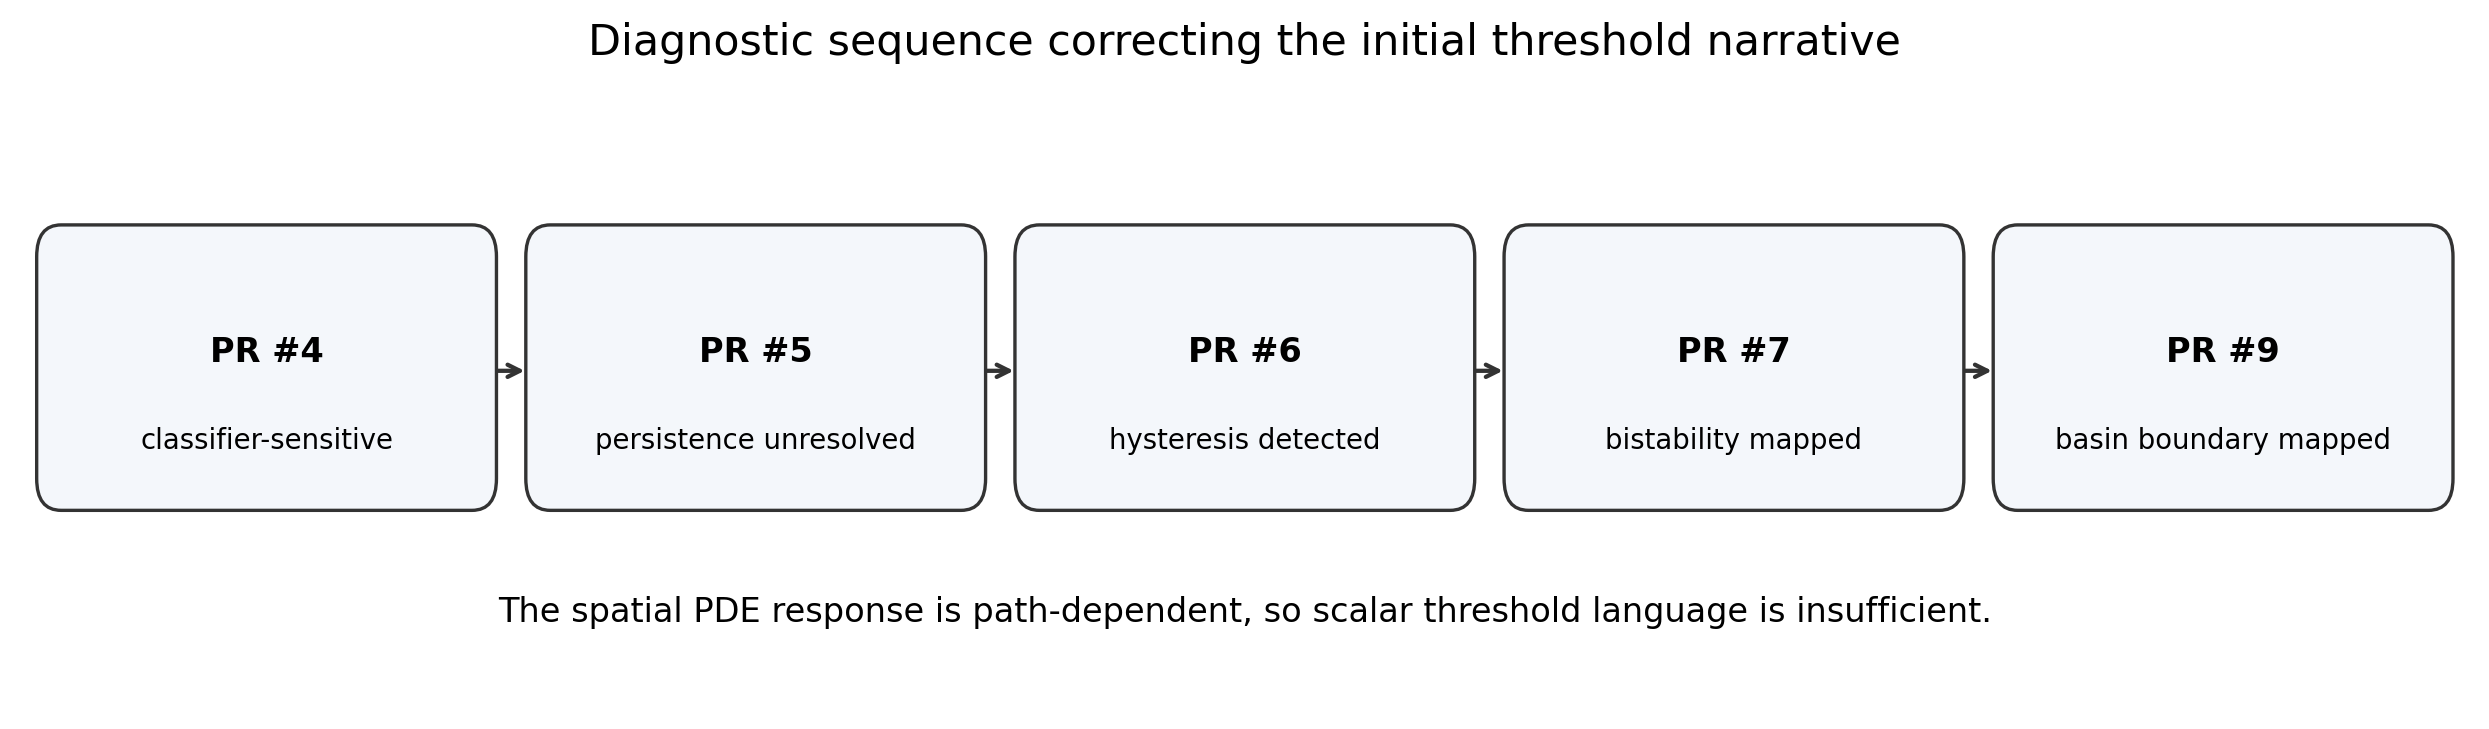
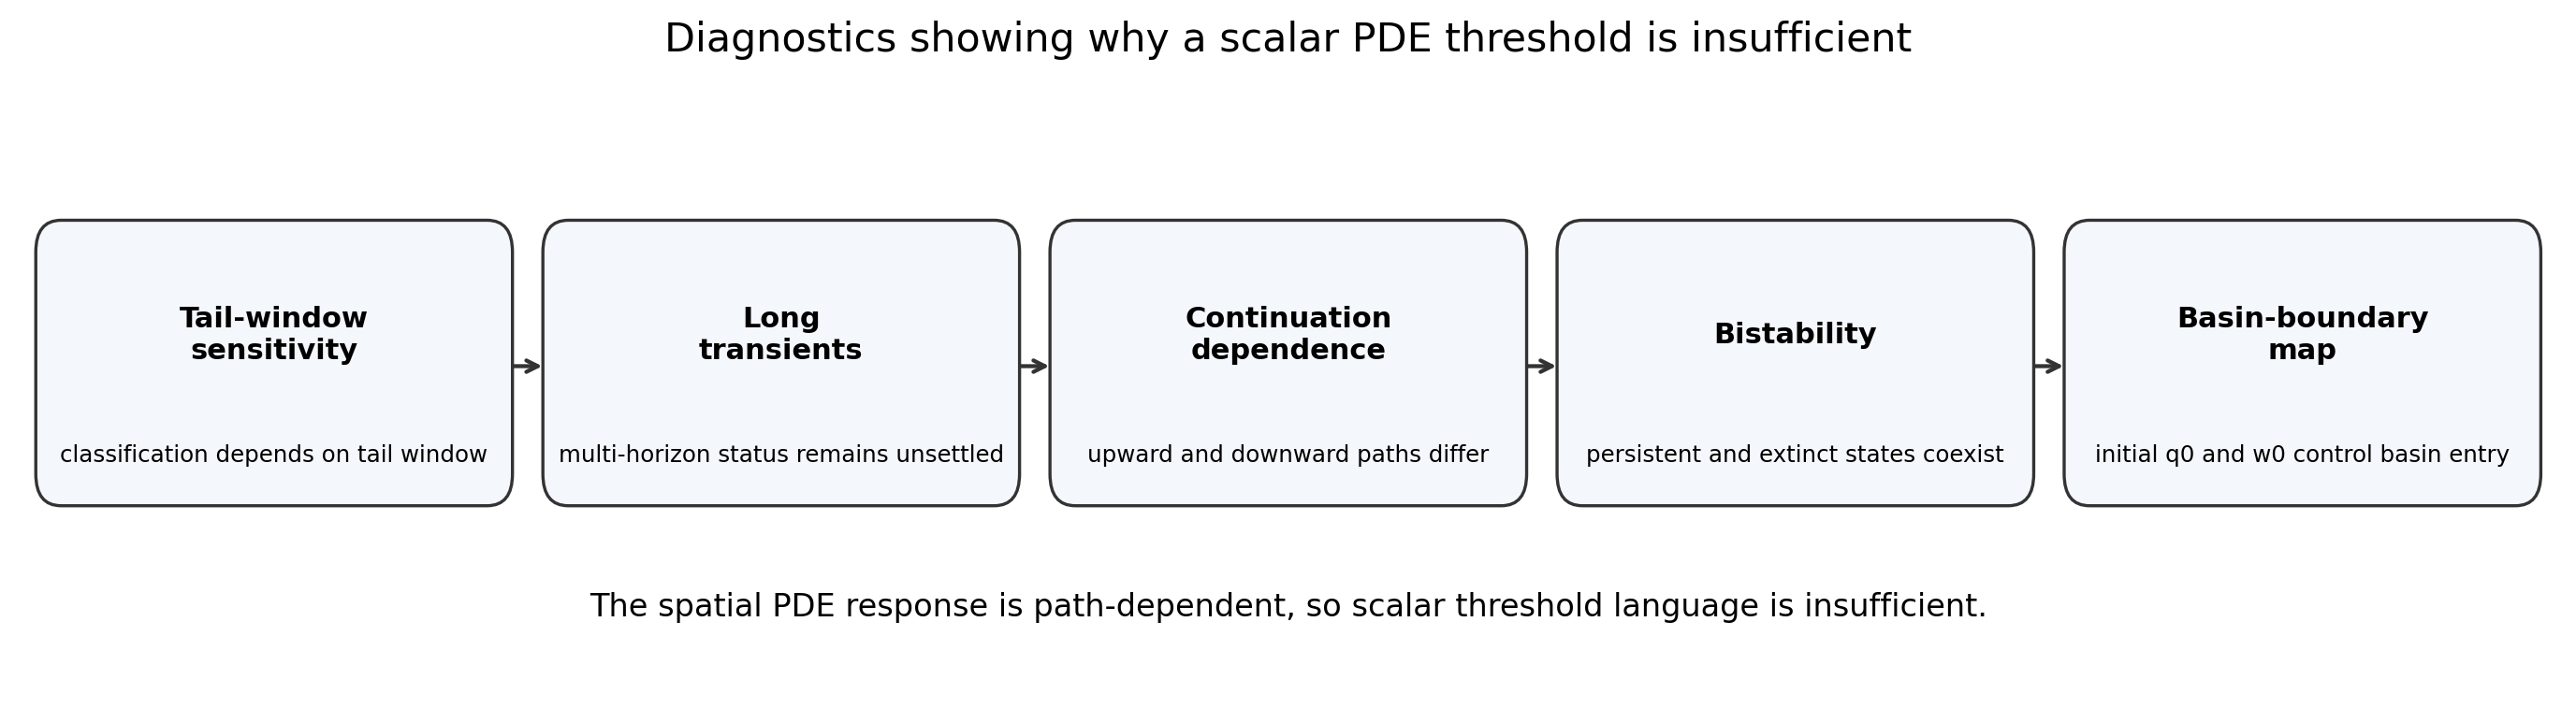
Rewrite rescue report in scientific form

diff --git a/manuscript/roy_evo_spatial_rescue_report.tex b/manuscript/roy_evo_spatial_rescue_report.tex
@@ -19,122 +19,146 @@
 \maketitle
 
 \begin{abstract}
-The fixed-defense spatial Roy-style model did not produce robust predator rescue: the best fixed-defense spatial candidate failed validation and was classified as a transient or numerical candidate. Introducing prey defense evolution in the well-mixed model did support indirect evolutionary rescue, increasing the predator mortality stress threshold from the no-evolution value to the evolving threshold while defense frequency declined in the rescue window. Adding spatial diffusion did not produce a result that can be summarized by one scalar persistence threshold. Later diagnostics showed classifier sensitivity, unresolved long transients, continuation hysteresis, and bistability. The current endpoint is that ODE prey defense evolution supports indirect evolutionary rescue, while the spatial PDE response is path-dependent and bistable. Basin entry depends on initial defense frequency \(q_0\) and initial predator abundance \(w_0\), so the spatial model should be analyzed through basin structure rather than a single persistence threshold.
+We study whether spatial structure can alter indirect evolutionary rescue in a predator--prey model with evolving prey defense. A fixed-defense spatial control did not produce robust predator persistence beyond the well-mixed reference. Introducing prey defense evolution in the well-mixed model increased the predator mortality stress tolerated by the system, consistent with indirect evolutionary rescue through a decline in defense frequency. In the spatial eco-evolutionary model, however, persistence was not organized by a single monotone stress threshold. Multi-horizon, continuation, and basin analyses showed path-dependent dynamics and bistability: at the same mortality stress, predator-persistent and predator-extinct outcomes were both reachable from different initial conditions. A focused basin-boundary scan showed that initial defense frequency and predator abundance influence basin entry. These results suggest that spatial eco-evolutionary rescue should be analyzed in terms of reachable outcome basins rather than scalar persistence thresholds.
 \end{abstract}
 
 \section{Introduction}
 
-Indirect evolutionary rescue requires a change in trait values or genotype frequencies after environmental stress. A fixed-defense predator--prey model can test whether spatial patterning alone supports predator persistence, but it cannot test indirect evolutionary rescue because the prey defense state is fixed. The eco-evolutionary extension therefore introduces a prey defense frequency \(q\), where lower \(q\) represents lower defense, higher prey growth, and higher predator conversion opportunity.
+Evolutionary rescue occurs when adaptive trait or genotype-frequency change allows a population to persist after environmental stress. In the present predator--prey setting, the relevant trait is prey defense. Higher defense reduces predation pressure, but it also carries ecological costs through lower prey growth and lower predator conversion opportunity. Indirect evolutionary rescue of the predator can occur when increased predator mortality lowers predator pressure, selection favors reduced prey defense, and the resulting lower-defense prey state improves predator recovery.
 
-Spatial structure can change predator--prey outcomes by changing local overlap, covariance, and transient recovery paths. The current project initially asked whether spatial diffusion amplifies or suppresses the well-mixed evolutionary rescue threshold. That framing proved too narrow. The first threshold comparison suggested a lower PDE-evo threshold than the ODE-evo threshold, but later analyses showed that threshold language is insufficient because the system has multiple reachable outcomes at the same stress.
+This mechanism cannot be tested in a fixed-defense model. A fixed-defense spatial predator--prey model can ask whether spatial patterning alone creates predator persistence beyond a well-mixed reference, but it cannot test evolutionary rescue because the prey defense state does not change. The eco-evolutionary model therefore introduces a defense frequency \(q\), with \(q=0\) representing fully undefended prey and \(q=1\) representing fully defended prey.
 
-The report summarizes the current endpoint from existing project outputs. It does not introduce new simulations or model equations. The central conclusion is that the spatial eco-evolutionary model has path-dependent bistable rescue dynamics organized by reachable outcome basins.
+Comparing well-mixed and spatial models is useful because diffusion can alter local predator--prey overlap, transient recovery paths, and the basins of attraction of persistent or extinct states. A scalar mortality threshold \(m_c\) is a natural first diagnostic: below the threshold the predator persists, while above it the predator fails to persist. This diagnostic is appropriate when the stress response is monotone and when persistence is controlled by one attracting outcome. It can fail in bistable systems, where persistent and extinct states are both reachable at the same stress.
 
-\section{Model sequence}
+The main result is that the well-mixed eco-evolutionary model supports indirect evolutionary rescue, while the spatial eco-evolutionary model is not summarized by a single persistence threshold. In the spatial model, the same stress can lead to predator persistence, extinction, or long transients depending on initial condition and continuation path.
 
-The eco-evolutionary variables are total prey density \(n\), predator density \(w\), prey defense frequency \(q\), and free space
+\section{Model formulation}
+
+The eco-evolutionary variables are total prey density \(n\), predator density \(w\), prey defense frequency \(q\), free space \(z\), and predator mortality stress \(s\). Free space is
 \[
 z = \kappa^{-1} - n - w.
 \]
 The defense trade-off functions are
 \[
-r(q)=r_u(1-q)+r_v q,\quad
-a(q)=a_u(1-q)+a_v q,\quad
+r(q)=r_u(1-q)+r_v q,
+\]
+\[
+a(q)=a_u(1-q)+a_v q,
+\]
+\[
 b(q)=b_u(1-q)+b_v q.
 \]
-The well-mixed ODE is
+The well-mixed eco-evolutionary ODE is
 \begin{align}
 \frac{dn}{dt} &= n[r(q)z-\xi-a(q)w],\\
 \frac{dw}{dt} &= w[b(q)nz-(m+s)-\mu w],\\
 \frac{dq}{dt} &= \nu q(1-q)[(r_v-r_u)z-(a_v-a_u)w].
 \end{align}
-Here \(s\) is the predator mortality stress. The spatial PDE uses the same local reaction terms and adds diffusion:
+The spatial extension uses the same local reaction terms and adds diffusion:
 \begin{align}
 \partial_t n &= D_n\nabla^2 n + n[r(q)z-\xi-a(q)w],\\
 \partial_t w &= D_w\nabla^2 w + w[b(q)nz-(m+s)-\mu w],\\
 \partial_t q &= D_q\nabla^2 q + \nu q(1-q)[(r_v-r_u)z-(a_v-a_u)w].
 \end{align}
-The PDE simulations used zero-flux Neumann boundaries.
+The spatial simulations use zero-flux Neumann boundary conditions.
 
 \begin{figure}[htbp]
   \centering
   \includegraphics[width=0.92\linewidth]{figures/roy_evo_spatial/report/fig01_model_schematic.png}
-  \caption{Conceptual schematic of the eco-evolutionary variables and trade-off links.}
+  \caption{Eco-evolutionary model variables and trade-off links. Defense frequency \(q\) changes growth, predation, and conversion terms, while stress \(s\) increases predator mortality.}
   \label{fig:model-schematic}
 \end{figure}
 
 \begin{table}[htbp]
   \centering
-  \caption{Parameter values used in the eco-evolutionary tests. The conversion values \(b_u=0.08\) and \(b_v=0.02\) were used to produce an interior defense-frequency baseline.}
+  \caption{Parameter values used in the eco-evolutionary tests. The conversion values \(b_u=0.08\) and \(b_v=0.02\) were used to obtain an interior defense-frequency baseline.}
   \label{tab:parameters}
   \input{tables/roy_evo_spatial/table01_parameters.tex}
 \end{table}
 
-\section{Fixed-defense spatial model}
+\section{Numerical questions and diagnostic criteria}
 
-The fixed-defense spatial Roy-style route tested whether spatial patterning alone could rescue predators when the well-mixed reference failed. That route did not produce robust ODE-extinct/PDE-persistent rescue. The best weak candidate occurred at \(D_w/D_u=150\), but it failed the validation sequence and was classified as \texttt{transient\_or\_numerical\_candidate}. Therefore fixed-defense spatial patterning was not enough for a robust predator-rescue claim in the tested model.
+The first numerical question was whether prey defense evolution increases the predator mortality stress tolerated by the well-mixed system. This was measured by comparing the no-evolution and evolution thresholds
+\[
+m_c^{ODE,\mathrm{no\ evo}}, \quad m_c^{ODE,\mathrm{evo}},
+\]
+and their difference
+\[
+\Delta_{evo}^{ODE}=m_c^{ODE,\mathrm{evo}}-m_c^{ODE,\mathrm{no\ evo}}.
+\]
+A positive value indicates that prey evolution expands the predator persistence range in the well-mixed model.
 
-\section{Eco-evolutionary ODE rescue}
+The second numerical question was whether adding spatial diffusion changes the same rescue effect. A scalar PDE threshold was initially tested because it gives a direct comparison with the ODE threshold when persistence changes monotonically with stress. The later spatial diagnostics were needed because the apparent PDE boundary was sensitive to the tail window, integration horizon, and tail-slope rule. Multi-horizon analysis showed long transients near the apparent boundary, continuation experiments showed direction-dependent outcomes, and basin scans showed that different initial conditions can reach different outcomes at the same stress.
 
-The well-mixed eco-evolutionary ODE supported indirect evolutionary rescue. The no-evolution predator mortality stress threshold was
+The outcome classes used in the spatial interpretation are scientific rather than procedural. A persistent outcome has a predator density tail that remains positive and steady enough to support persistence. An extinct outcome has predator density near zero. A transient outcome has not settled clearly into either class at the tested horizon. A bistable stress is one where both persistent and extinct outcomes are reachable from different initial states or continuation paths.
+
+\section{Fixed-defense spatial model as a control}
+
+Before introducing prey evolution, the fixed-defense spatial model was used as a control for spatial patterning alone. The question was whether spatial heterogeneity could create predator persistence beyond the well-mixed reference when prey defense was held fixed.
+
+The fixed-defense spatial model did not produce robust ODE-extinct/PDE-persistent predator rescue. The strongest weak candidate occurred at \(D_w/D_u=150\), but further grid and mechanism checks classified it as a transient or numerical candidate rather than a robust spatial rescue mechanism. This control establishes that fixed spatial patterning alone was insufficient for predator rescue in the tested model.
+
+\section{Indirect evolutionary rescue in the well-mixed model}
+
+The well-mixed eco-evolutionary model gave the clean positive result. The no-evolution predator mortality stress threshold was
 \[
 m_c^{ODE,\mathrm{no\ evo}} = 0.069448242,
 \]
-while the evolving threshold was
+whereas the evolving-defense threshold was
 \[
 m_c^{ODE,\mathrm{evo}} = 0.16486816.
 \]
-The evolutionary rescue effect was therefore
+Thus
 \[
-\Delta_{evo}^{ODE} = 0.095419922.
+\Delta_{evo}^{ODE}=0.095419922.
 \]
-In the ODE rescue window, prey defense frequency declined from approximately \(0.6726\) to approximately \(0.3336\), consistent with reduced defense and increased palatability supporting predator recovery.
+In the rescue window, defense frequency declined from approximately \(0.6726\) to approximately \(0.3336\).
+
+Mechanistically, increased predator mortality reduces predator pressure. Lower predator pressure makes defense less favorable because the growth cost of defense is no longer offset by strong predation avoidance. As \(q\) declines, prey growth and predator conversion opportunity increase, allowing predator persistence over a larger stress interval. This is the cleanest evidence for indirect evolutionary rescue in the model sequence.
 
 \begin{figure}[htbp]
   \centering
   \includegraphics[width=0.72\linewidth]{figures/roy_evo_spatial/report/fig02_ode_thresholds.png}
-  \caption{ODE threshold comparison showing indirect evolutionary rescue in the well-mixed model.}
+  \caption{Well-mixed ODE threshold comparison. Prey defense evolution increases the predator mortality stress tolerated by the system.}
   \label{fig:ode-thresholds}
 \end{figure}
 
 \begin{table}[htbp]
   \centering
-  \caption{Threshold quantities from the ODE rescue analysis and early PDE screening. The PDE entries are historical screening quantities and should not be interpreted as final scalar thresholds.}
+  \caption{Threshold quantities from the ODE rescue analysis and preliminary PDE screening. The PDE entries are early screening quantities; later diagnostics show that they should not be treated as final scalar thresholds for the spatial system.}
   \label{tab:thresholds}
   \input{tables/roy_evo_spatial/table02_thresholds.tex}
 \end{table}
 
-\section{Spatial PDE and failure of scalar threshold language}
+\section{Spatial eco-evolutionary model}
 
-The first spatial threshold comparison reported a representative PDE no-evolution threshold of \(0.06921875\) and a representative PDE evolution threshold of \(0.11765625\). Because the latter is below the ODE evolution threshold \(0.16486816\), the initial screening suggested a lower PDE-evo persistence threshold than the ODE-evo threshold.
+The spatial eco-evolutionary model adds diffusion of \(n\), \(w\), and \(q\) to the same local eco-evolutionary reactions. The first scalar-threshold screen suggested that the PDE tolerated less mortality stress than the well-mixed evolving system. The representative screening values were \(m_c^{PDE,\mathrm{no\ evo}}=0.06921875\) and \(m_c^{PDE,\mathrm{evo}}=0.11765625\). Because \(0.11765625 < 0.16486816\), this preliminary comparison suggested a lower PDE-evolution persistence boundary than the ODE-evolution threshold.
 
-That interpretation was later corrected. The diagnostic sequence found:
-\begin{itemize}
-  \item PR \#4: \texttt{pde\_evo\_threshold\_classifier\_sensitive};
-  \item PR \#5: \texttt{pde\_evo\_persistence\_unresolved};
-  \item PR \#6: \texttt{pde\_evo\_hysteresis\_detected};
-  \item PR \#7: \texttt{pde\_evo\_bistability\_mapped};
-  \item PR \#9: \texttt{basin\_boundary\_mapped}.
-\end{itemize}
-Together these results show that the spatial PDE does not behave like a single monotone stress-response curve in the sensitive stress range.
+That comparison was useful as a warning signal, but it was not a stable final summary of the spatial system. The spatial model showed sensitivity to persistence criteria, long transients, and path-dependent outcomes. These features change the scientific question from ``What is the PDE threshold?'' to ``Which persistent, extinct, or transient outcomes are reachable at a given stress?''
+
+\section{Evidence for path dependence and bistability}
+
+The spatial diagnostics proceeded in four conceptual steps. First, persistence classification was found to depend on the tail window and integration horizon. Second, longer multi-horizon analysis showed that several stresses near the apparent boundary remained transient rather than cleanly persistent or extinct. Third, continuation experiments showed direction-dependent outcomes: upward continuation could maintain a predator-persistent branch at stresses where downward continuation from high stress could remain extinct or transient. Finally, initial-condition basin scans confirmed that predator-persistent and predator-extinct outcomes can both be reached at the same stress.
 
 \begin{figure}[htbp]
   \centering
   \includegraphics[width=0.96\linewidth]{figures/roy_evo_spatial/report/fig03_diagnostic_sequence.png}
-  \caption{Diagnostic sequence that replaced the early scalar-threshold interpretation with a path-dependent basin interpretation.}
+  \caption{Scientific diagnostic sequence showing why a single scalar PDE threshold is insufficient.}
   \label{fig:diagnostic-sequence}
 \end{figure}
 
-\section{Hysteresis and basin structure}
+Continuation data illustrate the path dependence. At stress \(0.16486816\), upward continuation produced a persistent steady outcome, whereas downward continuation produced an extinct steady outcome. At stress \(0.175\), the same contrast persisted. These paired outcomes show that the spatial model cannot be represented by one monotone persistence curve.
 
-Continuation analysis showed direction dependence: upward continuation could keep a predator-persistent branch at stresses where downward continuation could remain extinct or transient. Basin mapping then showed that direction dependence was not merely a numerical artifact of a continuation path. Different initial-condition families could reach different outcomes at the same stress.
-
-The Step 13 basin map found persistent/transient mixed regimes at \(0.141262205\) and \(0.15\), and bistable persistent/extinct regimes at \(0.1584375\), \(0.16486816\), and \(0.175\).
+The broader basin-regime map identifies two types of stress regimes:
+\begin{itemize}
+  \item mixed persistent/transient regimes at \(0.141262205\) and \(0.15\);
+  \item bistable persistent/extinct regimes at \(0.1584375\), \(0.16486816\), and \(0.175\).
+\end{itemize}
 
 \begin{figure}[htbp]
   \centering
   \includegraphics[width=0.86\linewidth]{figures/roy_evo_spatial/report/fig04_basin_regime_map.png}
-  \caption{Basin outcomes across the Step 13 initial-condition families. Bistability appears where persistent and extinct basin outcomes coexist.}
+  \caption{Basin outcomes across initial-condition families. Bistability appears where persistent and extinct basin outcomes coexist at the same stress.}
   \label{fig:basin-regime}
 \end{figure}
 
@@ -145,11 +169,11 @@ The Step 13 basin map found persistent/transient mixed regimes at \(0.141262205\
   \input{tables/roy_evo_spatial/table03_bistability_regimes.tex}
 \end{table}
 
-\section[Basin-boundary dependence on q0 and w0]{Basin-boundary dependence on \(q_0\) and \(w_0\)}
+\section[Initial-defense and predator-abundance basin dependence]{Basin-boundary dependence on \(q_0\) and \(w_0\)}
 
-PR \#9 quantified basin boundaries by scanning initial defense frequency \(q_0\) and predator abundance scale \(w_0/w_{\mathrm{baseline}}\) at two stresses inside the bistable interval. Both target stresses were classified as \texttt{bistable\_persistent\_extinct}. At stress \(0.1584375\), the grid contained 20 persistent, 7 extinct, and 43 transient outcomes. At stress \(0.16486816\), it contained 14 persistent, 21 extinct, and 35 transient outcomes.
+The focused basin-boundary scan varied initial defense frequency \(q_0\) and initial predator abundance scale \(w_0/w_{\mathrm{baseline}}\) at two stresses inside the bistable interval. At stress \(0.1584375\), the \(q_0\)--\(w_0\) grid gave 20 persistent, 7 extinct, and 43 transient outcomes. At stress \(0.16486816\), it gave 14 persistent, 21 extinct, and 35 transient outcomes. No unresolved or nonphysical initial-condition outcomes were recorded in these two focused grids.
 
-Persistent basins concentrated at low-to-intermediate \(q_0\). Predator initial abundance modulated basin entry within that range: some initial predator scales entered persistence, while neighboring points remained transient or entered extinction. Transient outcomes remain common, so the current basin boundary is interpretable but not fully sharp at the present horizon.
+The scan shows that basin entry is two-dimensional. Low-to-intermediate \(q_0\) values tend to favor predator-persistent outcomes, so the initial defense state is a major basin-entry coordinate. Predator initial abundance modulates the outcome within that \(q_0\) range. Transient outcomes remain common, which means the separatrix is not yet fully resolved at the tested horizon.
 
 \begin{figure}[htbp]
   \centering
@@ -161,7 +185,7 @@ Persistent basins concentrated at low-to-intermediate \(q_0\). Predator initial 
 \begin{figure}[htbp]
   \centering
   \includegraphics[width=0.72\linewidth]{figures/roy_evo_spatial/report/fig06_basin_boundary_counts.png}
-  \caption{Outcome counts in the focused PR \#9 basin-boundary scan.}
+  \caption{Outcome counts in the focused \(q_0\)--\(w_0\) basin-boundary scan.}
   \label{fig:basin-counts}
 \end{figure}
 
@@ -174,16 +198,18 @@ Persistent basins concentrated at low-to-intermediate \(q_0\). Predator initial 
 
 \section{Discussion}
 
-The fixed-defense route did not support robust spatial rescue, while the well-mixed eco-evolutionary route did support indirect evolutionary rescue. The spatial eco-evolutionary route initially looked like a threshold-suppression result, but the subsequent diagnostic sequence changed the interpretation.
+The fixed-defense control shows that spatial patterning alone was insufficient for robust predator rescue in the tested Roy-style model. The well-mixed eco-evolutionary model then shows that evolutionary change in prey defense can rescue predators under mortality stress. The spatial eco-evolutionary model changes the qualitative organization of the rescue problem.
 
-The current result is not a simple spatial suppression result. It is a bistability and basin-structure result. The PDE can reach predator-persistent or predator-extinct outcomes at the same stress, depending on initial condition or continuation path. The most recent basin-boundary scan shows that \(q_0\) and \(w_0\) are important basin-entry coordinates.
+The spatial result is not a simple amplification or suppression of the well-mixed rescue threshold; it is a change in dynamical organization from threshold crossing to basin-dependent outcomes. This changes what ``spatial effect on rescue'' means. Rather than asking whether the PDE threshold is higher or lower than the ODE threshold, the relevant question is which outcomes are reachable at each stress and how the basins depend on initial ecological and evolutionary state.
 
-The current analysis has several limitations. Transient outcomes remain common in the \(q_0\)--\(w_0\) grid, so the separatrix is not yet fully resolved. Diffusion coefficient sensitivity remains untested after basin mapping. The report also summarizes one trade-off parameterization, with \(b_u=0.08\) and \(b_v=0.02\), rather than a broad family of trade-offs.
+The basin-boundary results indicate that initial defense frequency and predator abundance are important coordinates for basin entry. Low-to-intermediate defense frequencies more often reach predator persistence, while high-defense states and some low-predator states more often lead to extinction or unresolved transients. Because transient outcomes remain common, the current basin map should be read as a resolved first layer of basin structure, not as a fully refined separatrix.
 
-\section{Current conclusion and next work}
+\section{Limitations and next steps}
 
-ODE prey defense evolution supports indirect evolutionary rescue. In the spatial PDE, the evolutionary rescue response is path-dependent and bistable. Basin entry depends on initial defense frequency and predator abundance, so the spatial model should be analyzed through basin structure rather than a single persistence threshold.
+The current analysis has several limitations. It uses one trade-off parameterization, with \(b_u=0.08\) and \(b_v=0.02\). Transient outcomes remain common near the basin boundary. The \(q_0\)--\(w_0\) basin boundary has not yet been adaptively refined. Sensitivity to diffusion coefficients has not yet been tested after basin mapping. The model has also not been externally calibrated to a particular biological system.
 
-The next simulation step is adaptive refinement of the \(q_0\)--\(w_0\) basin boundary for stresses \(0.1584375\) and \(0.16486816\).
+The next simulation step is adaptive refinement of the \(q_0\)--\(w_0\) separatrix at stresses \(0.1584375\) and \(0.16486816\). This should target the transition between persistent, extinct, and transient regions rather than repeat a scalar threshold scan.
+
+In the well-mixed system, prey defense evolution supports indirect evolutionary rescue. In the spatial system, the same eco-evolutionary mechanism does not reduce to a single persistence threshold. Instead, the spatial model exhibits path-dependent and bistable rescue dynamics, with basin entry controlled in part by initial prey defense frequency and predator abundance.
 
 \end{document}

diff --git a/experiments/18_make_report_figures_tables.py b/experiments/18_make_report_figures_tables.py
@@ -68,7 +68,7 @@ def latex_escape_text(value: str) -> str:
 
 
 def load_ode_thresholds() -> tuple[float, float, float]:
-    """Load no-evolution and evolution ODE thresholds from Step 09A output."""
+    """Load no-evolution and evolution ODE thresholds."""
     rows = read_csv(ODE_THRESHOLD_CSV)
     thresholds: dict[bool, float] = {}
     for row in rows:
@@ -97,7 +97,7 @@ def load_basin_counts(path: Path) -> tuple[list[float], dict[str, list[int]]]:
 
 
 def load_boundary_summary() -> list[dict[str, str]]:
-    """Load the Step 15 basin-boundary summary, or aggregate it if absent."""
+    """Load the basin-boundary summary, or aggregate it if absent."""
     if BASIN_BOUNDARY_SUMMARY_CSV.exists():
         return read_csv(BASIN_BOUNDARY_SUMMARY_CSV)
 
@@ -274,19 +274,19 @@ def make_diagnostic_sequence() -> Path:
     """Plot the diagnostic sequence that changed the threshold narrative."""
     output_path = FIGURE_DIR / "fig03_diagnostic_sequence.png"
     steps = [
-        ("PR #4", "classifier-sensitive"),
-        ("PR #5", "persistence unresolved"),
-        ("PR #6", "hysteresis detected"),
-        ("PR #7", "bistability mapped"),
-        ("PR #9", "basin boundary mapped"),
+        ("Tail-window\nsensitivity", "classification depends on tail window"),
+        ("Long\ntransients", "multi-horizon status remains unsettled"),
+        ("Continuation\ndependence", "upward and downward paths differ"),
+        ("Bistability", "persistent and extinct states coexist"),
+        ("Basin-boundary\nmap", "initial q0 and w0 control basin entry"),
     ]
 
-    fig, ax = plt.subplots(figsize=(11.2, 3.2), constrained_layout=True)
+    fig, ax = plt.subplots(figsize=(12.4, 3.4), constrained_layout=True)
     ax.set_xlim(-0.5, len(steps) - 0.5)
     ax.set_ylim(0, 1)
     ax.axis("off")
 
-    for index, (pr_label, result) in enumerate(steps):
+    for index, (diagnostic_label, result) in enumerate(steps):
         box = mpatches.FancyBboxPatch(
             (index - 0.42, 0.36),
             0.84,
@@ -297,8 +297,8 @@ def make_diagnostic_sequence() -> Path:
             facecolor="#f4f7fb",
         )
         ax.add_patch(box)
-        ax.text(index, 0.56, pr_label, ha="center", va="center", fontsize=11, fontweight="bold")
-        ax.text(index, 0.42, result, ha="center", va="center", fontsize=9)
+        ax.text(index, 0.58, diagnostic_label, ha="center", va="center", fontsize=10, fontweight="bold")
+        ax.text(index, 0.39, result, ha="center", va="center", fontsize=8)
         if index < len(steps) - 1:
             ax.annotate(
                 "",
@@ -315,13 +315,13 @@ def make_diagnostic_sequence() -> Path:
         va="center",
         fontsize=11,
     )
-    ax.set_title("Diagnostic sequence correcting the initial threshold narrative", fontsize=14)
+    ax.set_title("Diagnostics showing why a scalar PDE threshold is insufficient", fontsize=14)
     save_figure(fig, output_path)
     return output_path
 
 
 def make_basin_regime_map() -> Path:
-    """Create a stacked bar chart for the PR #7 basin-regime map."""
+    """Create a stacked bar chart for the basin-regime map."""
     output_path = FIGURE_DIR / "fig04_basin_regime_map.png"
     stresses, counts = load_basin_counts(BASIN_REGIME_CSV)
     fig, ax = plt.subplots(figsize=(9.2, 5.2), constrained_layout=True)
@@ -353,7 +353,7 @@ def make_basin_regime_map() -> Path:
 
 
 def make_basin_boundary_heatmap() -> Path:
-    """Create q0--w0 basin-boundary panels for the focused PR #9 stresses."""
+    """Create q0--w0 basin-boundary panels for the focused stresses."""
     output_path = FIGURE_DIR / "fig05_basin_boundary_heatmap.png"
     rows = [
         row
@@ -404,7 +404,7 @@ def make_basin_boundary_heatmap() -> Path:
 
 
 def make_basin_boundary_counts() -> Path:
-    """Create stacked basin-count bars for the PR #9 focused stresses."""
+    """Create stacked basin-count bars for the focused basin-boundary stresses."""
     output_path = FIGURE_DIR / "fig06_basin_boundary_counts.png"
     summary_rows = load_boundary_summary()
     stresses = [float(row["stress"]) for row in summary_rows]
@@ -500,7 +500,7 @@ def make_table_thresholds(no_evo: float, evo: float, delta: float) -> Path:
 
 
 def make_table_bistability_regimes() -> Path:
-    """Write the Step 13 stress-regime table fragment."""
+    """Write the stress-regime table fragment."""
     rows = [
         ("0.141262205", "persistent_transient_mixed"),
         ("0.15", "persistent_transient_mixed"),
@@ -520,7 +520,7 @@ def make_table_bistability_regimes() -> Path:
 
 
 def make_table_basin_boundary_counts() -> Path:
-    """Write the Step 15 basin-boundary count table fragment."""
+    """Write the basin-boundary count table fragment."""
     summary_rows = load_boundary_summary()
     lines = [
         r"\begin{tabular}{rrrrrrl}",